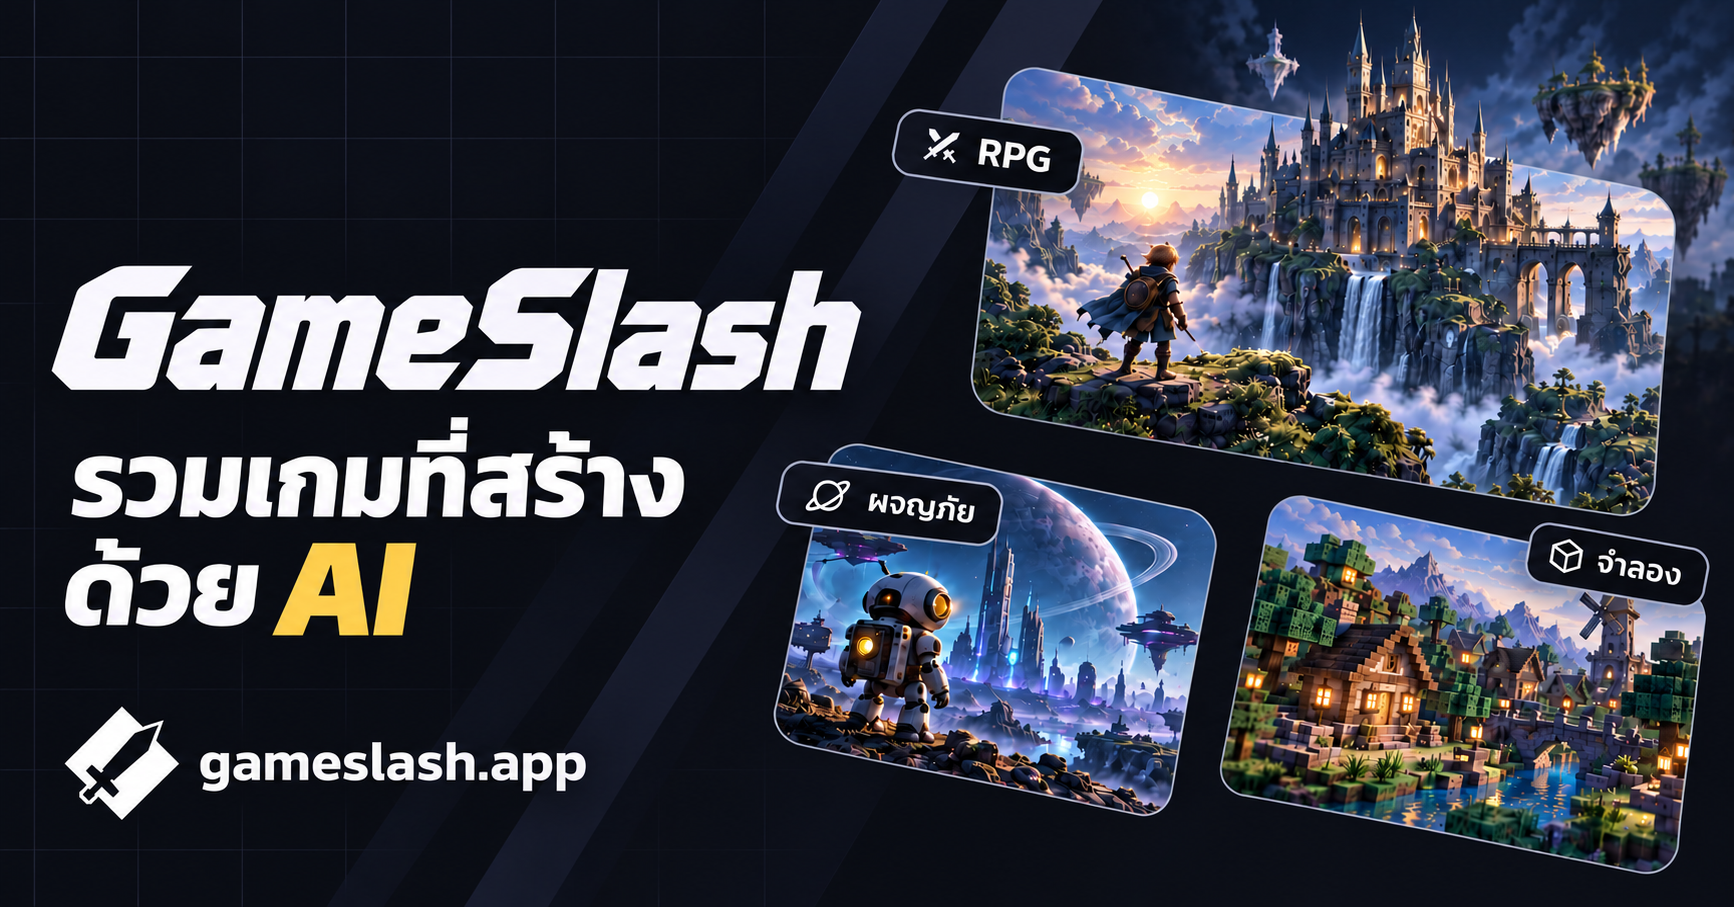
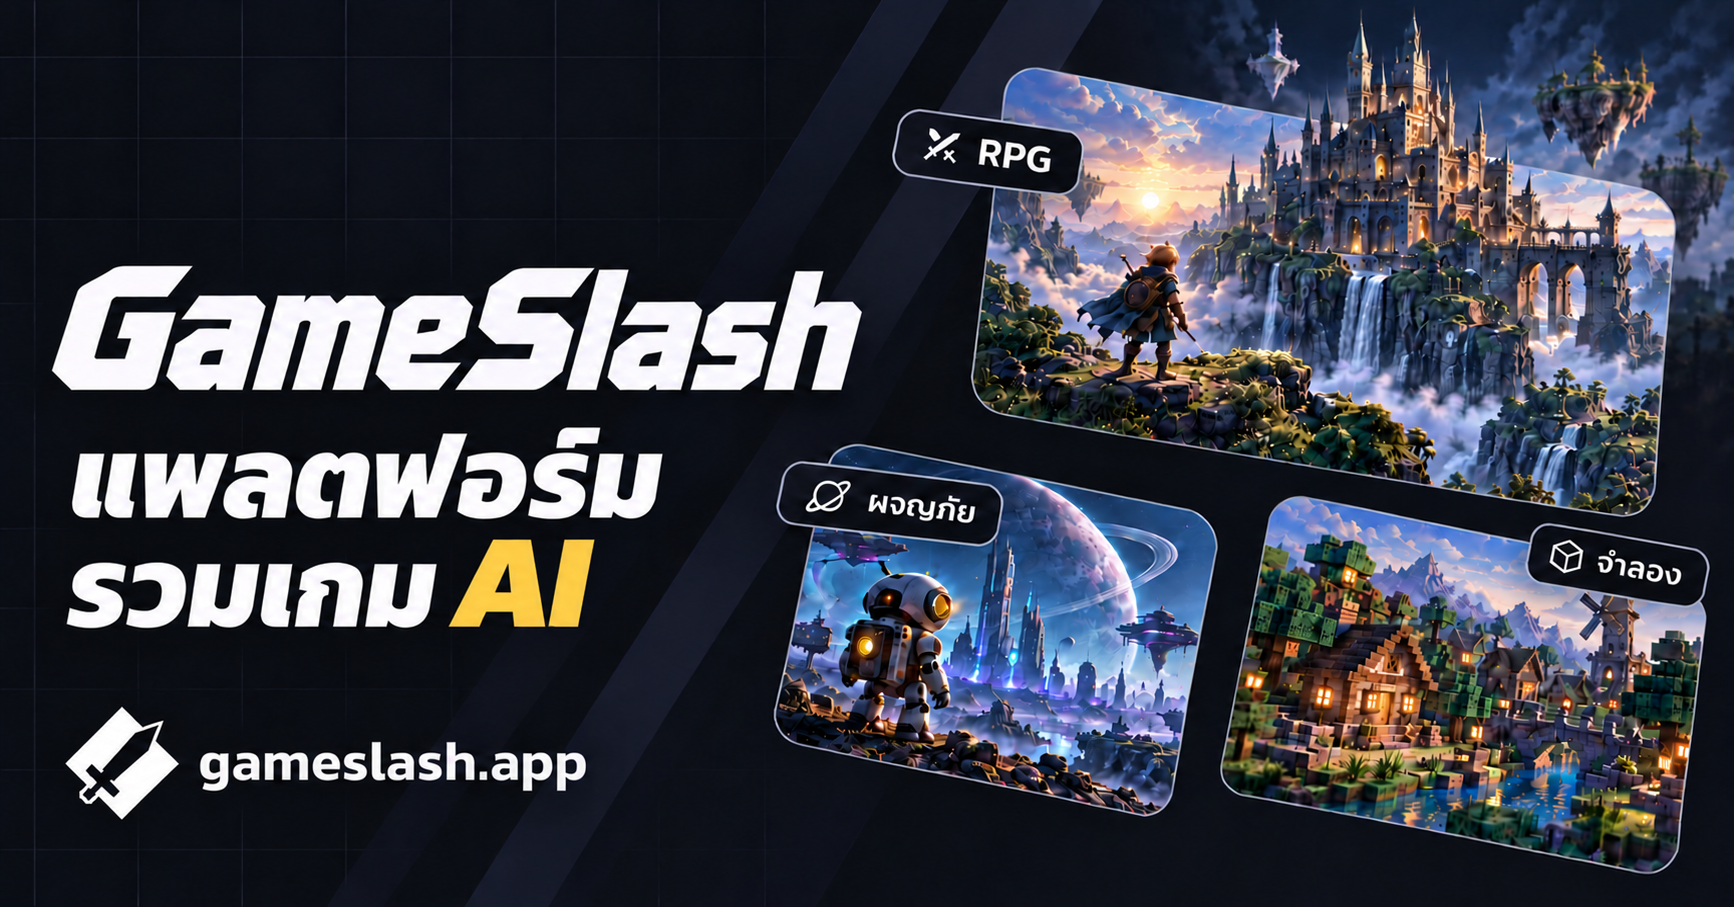
fix: align header and social cover with platform tagline

diff --git a/src/components/spotlight.tsx b/src/components/spotlight.tsx
@@ -20,7 +20,7 @@ export function Spotlight({ entries, layout }: { entries: Entry[]; layout: Layou
   const group = groups.find(g => g.id === groupId) || groups[0];
   if (!games.length) return null;
   const note = group.id === "liked" ? "ถูกใจเก็บเฉพาะเบราว์เซอร์นี้ ไม่ต้องสมัครสมาชิก หากล้างข้อมูลเว็บไซต์ รายการนี้จะหายไป"
-    : group.id === "auto-trending" ? "เกมที่ทีมงานคัดเลือกสำหรับชุดติดเทรนด์"
+    : group.id === "auto-trending" ? ""
     : /popular|trending|ยอดนิยม|มาแรง|เทรน/i.test(group.title) ? "ชุดเด่นที่ผู้ดูแลคัดเลือก ไม่ใช่อันดับจากยอดไลก์หรือจำนวนผู้เล่น" : "";
   const empty = group.id === "auto-trending"
     ? { title: "กำลังคัดเกมติดเทรนด์", description: "เมื่อทีมงานเพิ่มเกมในชุดนี้ คุณจะเห็นได้ที่นี่", icon: <TrendingUp size={36} className="empty-heart" aria-hidden="true" /> }

diff --git a/src/components/directory.tsx b/src/components/directory.tsx
@@ -434,7 +434,7 @@ export function Directory({
               <img className="brand-mark" src="/gameslash-symbol.svg" alt="" width={34} height={34} />
               GAMESLASH
             </Link>
-            <span className="brand-tagline">รวมเกมที่สร้างด้วย AI</span>
+            <span className="brand-tagline">แพลตฟอร์มรวมเกม AI</span>
           </div>
         </div>
         <label className="search-box">

diff --git a/src/app/layout.tsx b/src/app/layout.tsx
@@ -39,7 +39,7 @@ export const metadata: Metadata = {
       url: "/images/gameslash-social-v4.png",
       width: 1734,
       height: 907,
-      alt: "GameSlash รวมเกมที่สร้างด้วย AI — RPG ผจญภัย ปริศนา และจำลอง",
+      alt: "GameSlash แพลตฟอร์มรวมเกม AI — RPG ผจญภัย และจำลอง",
     }],
   },
   twitter: {
